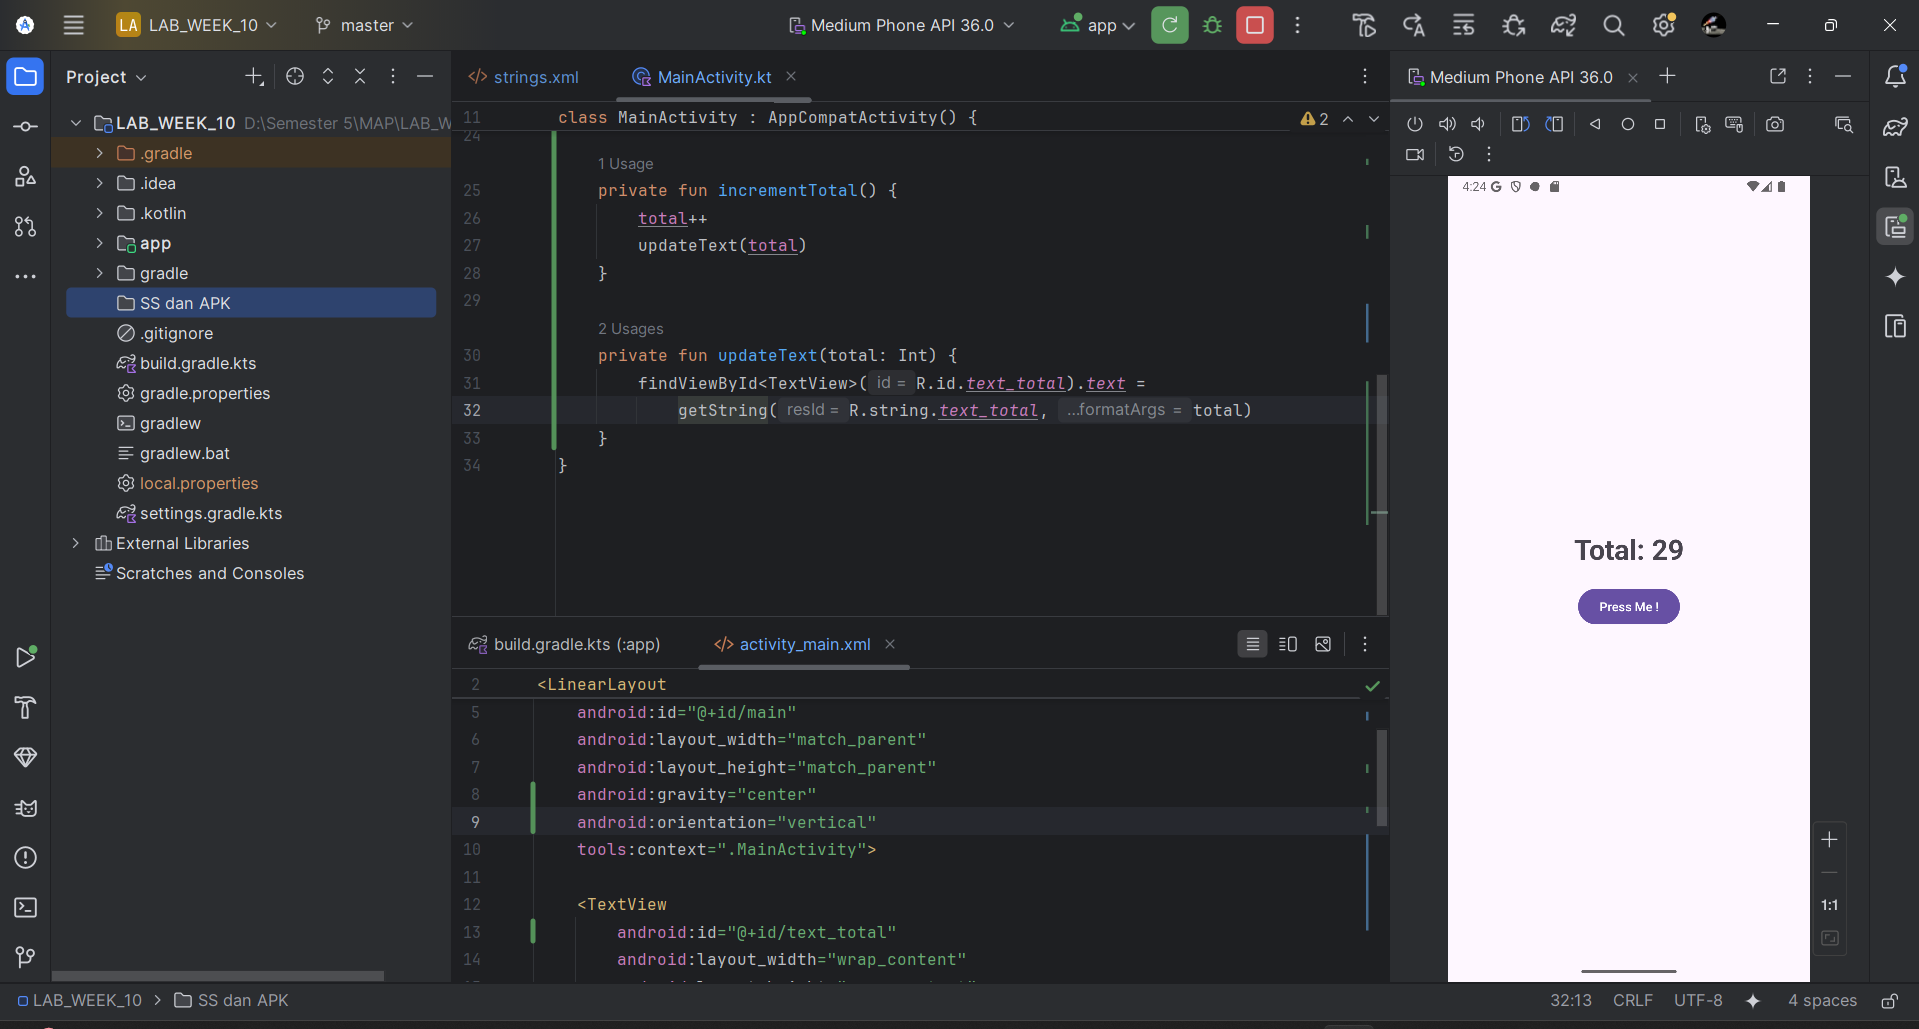
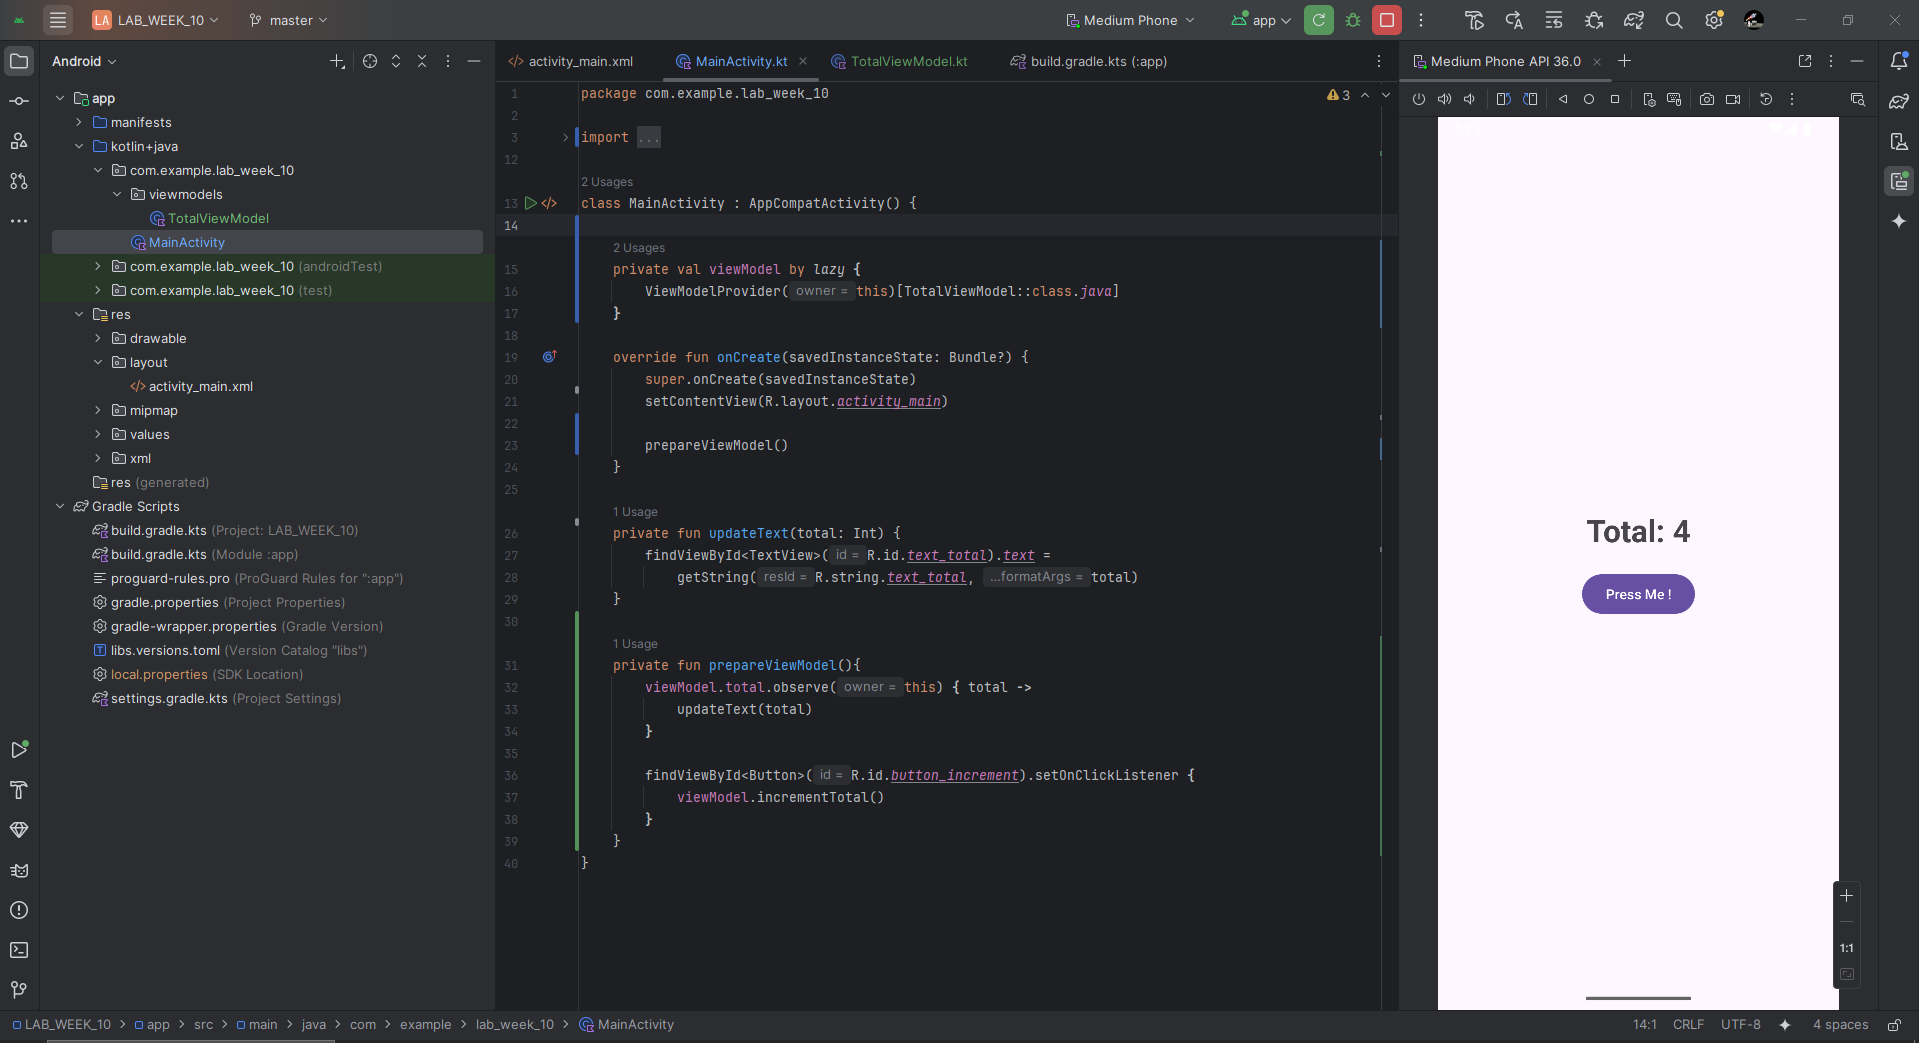
Commit No. 1: Implement ViewModel to Handle Rotation (updated)

diff --git a/app/src/main/java/com/example/lab_week_10/MainActivity.kt b/app/src/main/java/com/example/lab_week_10/MainActivity.kt
@@ -7,28 +7,34 @@ import androidx.activity.enableEdgeToEdge
 import androidx.appcompat.app.AppCompatActivity
 import androidx.core.view.ViewCompat
 import androidx.core.view.WindowInsetsCompat
+import androidx.lifecycle.ViewModelProvider
+import com.example.lab_week_10.viewmodels.TotalViewModel
 
 class MainActivity : AppCompatActivity() {
-    private var total: Int = 0
+
+    private val viewModel by lazy {
+        ViewModelProvider(this)[TotalViewModel::class.java]
+    }
 
     override fun onCreate(savedInstanceState: Bundle?) {
         super.onCreate(savedInstanceState)
-        enableEdgeToEdge()
         setContentView(R.layout.activity_main)
-        total = 0
-        updateText(total)
-        findViewById<Button>(R.id.button_increment).setOnClickListener {
-            incrementTotal()
-        }
-    }
 
-    private fun incrementTotal() {
-        total++
-        updateText(total)
+        prepareViewModel()
     }
 
     private fun updateText(total: Int) {
         findViewById<TextView>(R.id.text_total).text =
             getString(R.string.text_total, total)
+    }
+
+    private fun prepareViewModel(){
+        viewModel.total.observe(this) { total ->
+            updateText(total)
+        }
+
+        findViewById<Button>(R.id.button_increment).setOnClickListener {
+            viewModel.incrementTotal()
+        }
     }
 }

diff --git a/app/src/main/java/com/example/lab_week_10/viewmodels/TotalViewModel.kt b/app/src/main/java/com/example/lab_week_10/viewmodels/TotalViewModel.kt
@@ -1,0 +1,19 @@
+package com.example.lab_week_10.viewmodels
+
+import androidx.lifecycle.LiveData
+import androidx.lifecycle.MutableLiveData
+import androidx.lifecycle.ViewModel
+
+class TotalViewModel : ViewModel() {
+
+    private val _total = MutableLiveData<Int>()
+    val total: LiveData<Int> = _total
+
+    init {
+        _total.postValue(0)
+    }
+
+    fun incrementTotal() {
+        _total.postValue(_total.value?.plus(1))
+    }
+}
